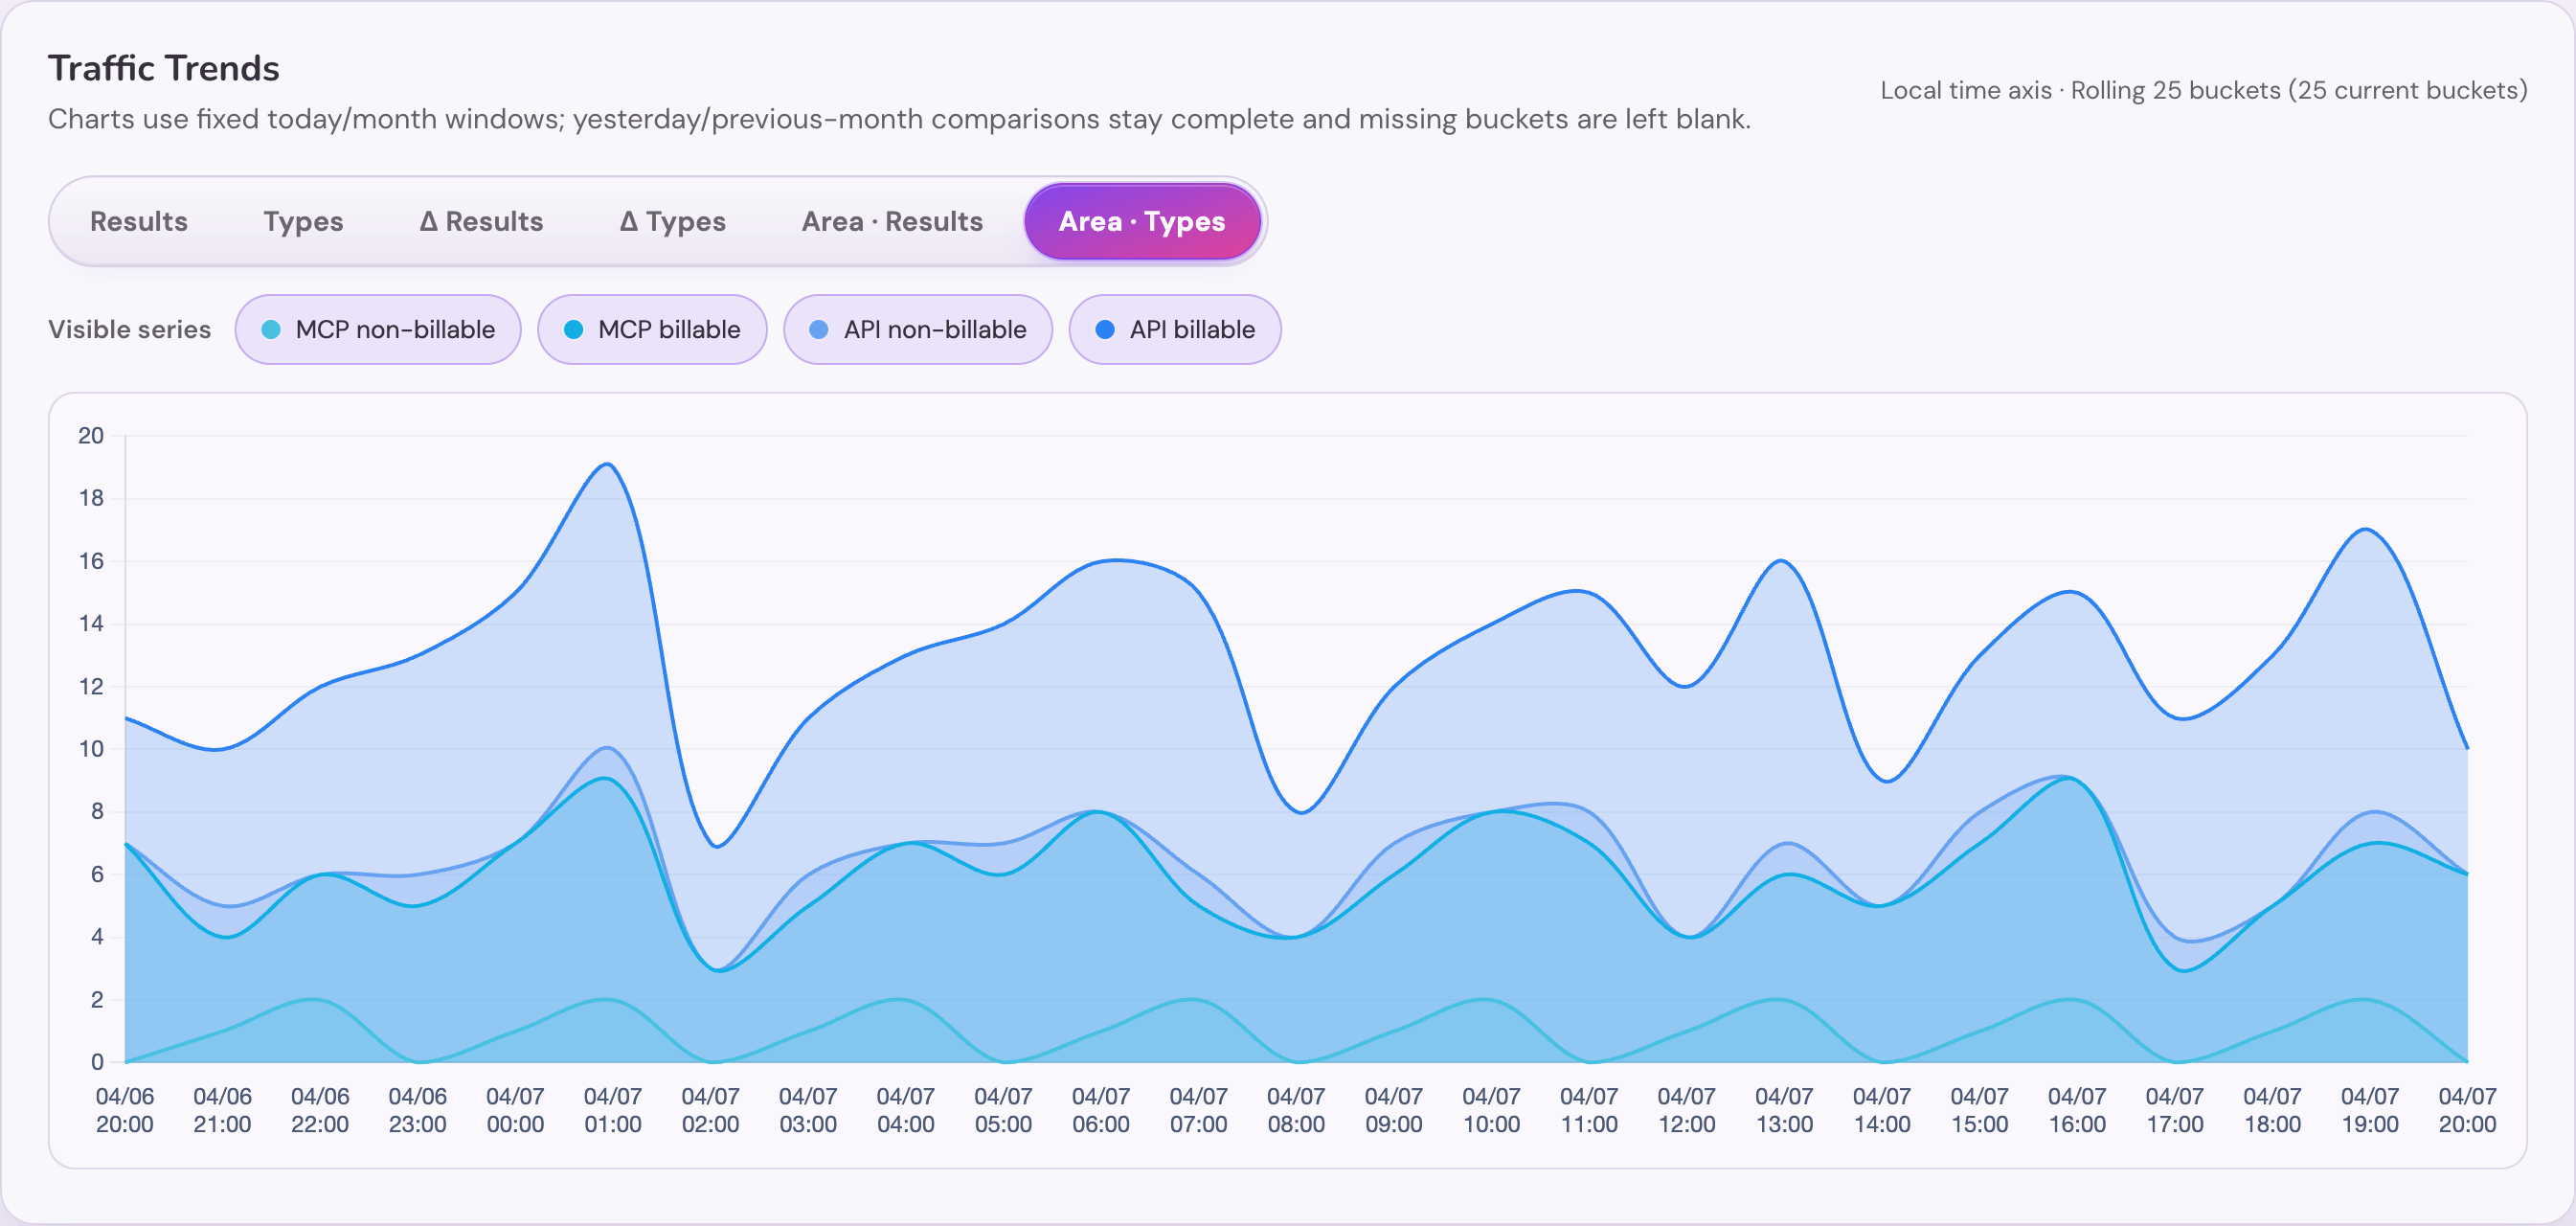
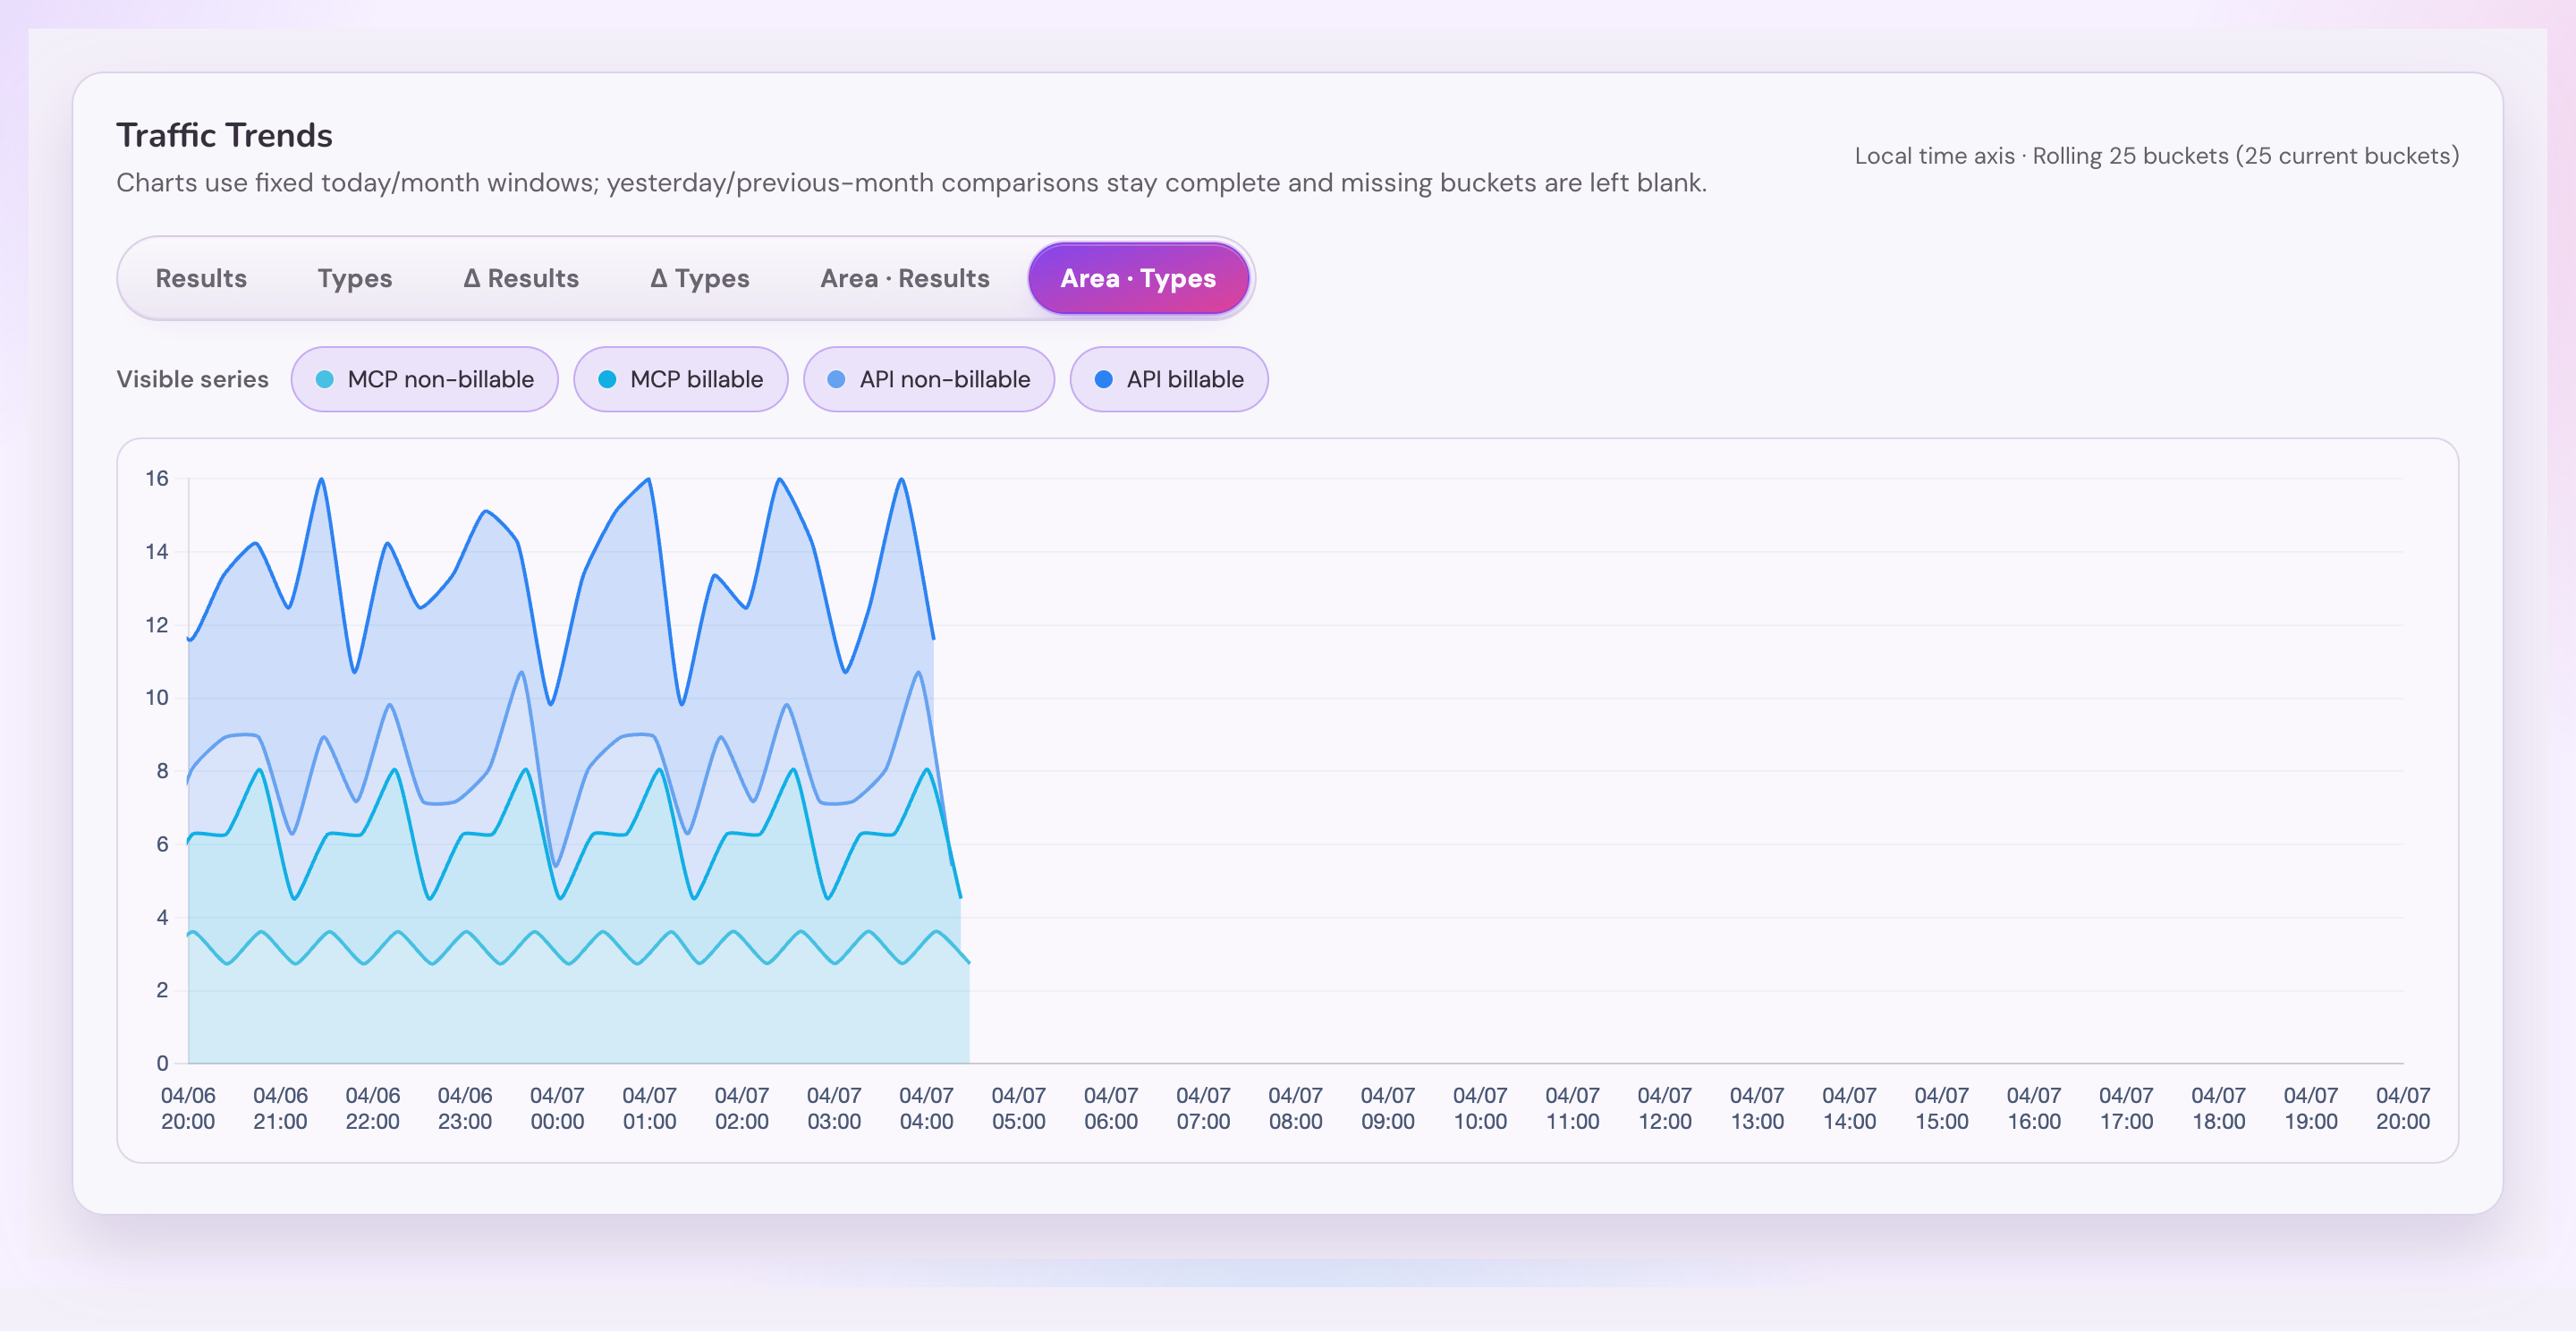
fix(admin-dashboard): stack hourly area charts (#324)

Pull request: fix: stack admin dashboard area charts
Spec: docs/specs/h2698-admin-dashboard-hourly-request-charts/SPEC.md
Spec Disposition: update
Solutions: -
Project Docs: -
Spec Sync: done
Spec Drift: none
Solutions Sync: n/a(no relevant solution doc)
Project Docs Sync: n/a(no project-doc change)

## Summary
- switch the admin dashboard area charts to explicit stacked fill targets so each visible series fills against the previous visible layer instead of the zero baseline
- disable Chart.js filler propagation, keep absolute-value stacking semantics, and reduce area smoothing to `tension=0.18`
- add regression coverage for hidden-middle-series re-stacking, refresh Storybook area evidence stories, and update spec visual evidence

## Test Plan
- `bun test web/src/admin/dashboardHourlyCharts.test.ts web/src/admin/DashboardOverview.stories.test.tsx`
- `cd web && bun run build`
- `codex review --base origin/main`

## Visual Evidence
- Spec: `docs/specs/h2698-admin-dashboard-hourly-request-charts/SPEC.md`
  Evidence: `admin-components-dashboardoverview--results-area-mode`
  ![管理员仪表盘小时图表：调用结果面积图](https://github.com/IvanLi-CN/tavily-hikari/blob/291abdf9b56c0591271969f0dffa6f37618de274/docs/specs/h2698-admin-dashboard-hourly-request-charts/assets/dashboard-hourly-results-area.png?raw=1)
- Spec: `docs/specs/h2698-admin-dashboard-hourly-request-charts/SPEC.md`
  Evidence: `admin-components-dashboardoverview--types-area-mode`
[…]

diff --git a/web/src/admin/DashboardTrendPanel.tsx b/web/src/admin/DashboardTrendPanel.tsx
@@ -19,6 +19,7 @@ import {
 } from 'chart.js'
 import {
   buildDeltaSeriesSlotValues,
+  buildDashboardAreaStackLayers,
   buildHourlyRangeSlots,
   getVisibleHourlyWindow,
   DASHBOARD_RESULT_SERIES_ORDER,
@@ -337,46 +338,52 @@ export default function DashboardTrendPanel({
     if (chartMode === 'resultsArea') {
       return {
         labels,
-        datasets: activeSeries.map((seriesId) => ({
-          type: 'line' as const,
-          label: resultSeriesLabels[seriesId as DashboardResultSeriesId],
-          data: labels.map((_, index) => {
-            const bucket = rangeSlots[index]?.bucket ?? null
-            return bucket ? getResultSeriesValue(bucket, seriesId as DashboardResultSeriesId) : null
-          }),
-          borderColor: seriesColors[seriesId as DashboardResultSeriesId],
-          backgroundColor: withOpacity(seriesColors[seriesId as DashboardResultSeriesId], 0.22),
-          fill: true,
-          borderWidth: 2,
-          pointRadius: 0,
-          pointHoverRadius: 3,
-          tension: 0.34,
-          spanGaps: false,
-          stack: 'area',
-        })),
+        datasets: buildDashboardAreaStackLayers(activeSeries as DashboardResultSeriesId[]).map((layer) => {
+          const seriesId = layer.seriesId
+          return {
+            type: 'line' as const,
+            label: resultSeriesLabels[seriesId],
+            data: labels.map((_, index) => {
+              const bucket = rangeSlots[index]?.bucket ?? null
+              return bucket ? getResultSeriesValue(bucket, seriesId) : null
+            }),
+            borderColor: seriesColors[seriesId],
+            backgroundColor: withOpacity(seriesColors[seriesId], 0.22),
+            fill: layer.fill,
+            borderWidth: layer.borderWidth,
+            pointRadius: layer.pointRadius,
+            pointHoverRadius: layer.pointHoverRadius,
+            tension: layer.tension,
+            spanGaps: layer.spanGaps,
+            stack: layer.stack,
+          }
+        }),
       }
     }
 
     if (chartMode === 'typesArea') {
       return {
         labels,
-        datasets: activeSeries.map((seriesId) => ({
-          type: 'line' as const,
-          label: typeSeriesLabels[seriesId as DashboardTypeSeriesId],
-          data: labels.map((_, index) => {
-            const bucket = rangeSlots[index]?.bucket ?? null
-            return bucket ? getTypeSeriesValue(bucket, seriesId as DashboardTypeSeriesId) : null
-          }),
-          borderColor: seriesColors[seriesId as DashboardTypeSeriesId],
-          backgroundColor: withOpacity(seriesColors[seriesId as DashboardTypeSeriesId], 0.22),
-          fill: true,
-          borderWidth: 2,
-          pointRadius: 0,
-          pointHoverRadius: 3,
-          tension: 0.34,
-          spanGaps: false,
-          stack: 'area',
-        })),
+        datasets: buildDashboardAreaStackLayers(activeSeries as DashboardTypeSeriesId[]).map((layer) => {
+          const seriesId = layer.seriesId
+          return {
+            type: 'line' as const,
+            label: typeSeriesLabels[seriesId],
+            data: labels.map((_, index) => {
+              const bucket = rangeSlots[index]?.bucket ?? null
+              return bucket ? getTypeSeriesValue(bucket, seriesId) : null
+            }),
+            borderColor: seriesColors[seriesId],
+            backgroundColor: withOpacity(seriesColors[seriesId], 0.22),
+            fill: layer.fill,
+            borderWidth: layer.borderWidth,
+            pointRadius: layer.pointRadius,
+            pointHoverRadius: layer.pointHoverRadius,
+            tension: layer.tension,
+            spanGaps: layer.spanGaps,
+            stack: layer.stack,
+          }
+        }),
       }
     }
 
@@ -410,6 +417,9 @@ export default function DashboardTrendPanel({
       },
       plugins: {
         legend: { display: false },
+        filler: {
+          propagate: false,
+        },
         tooltip: {
           mode: 'index',
           intersect: false,

diff --git a/web/src/admin/DashboardOverview.stories.tsx b/web/src/admin/DashboardOverview.stories.tsx
@@ -427,6 +427,22 @@ fixedRangeGapHourlyRequestWindow.buckets = fixedRangeGapHourlyRequestWindow.buck
   (_, index) => ![2, 7, 19, 31, 42].includes(index),
 )
 
+const areaEvidenceHourlyRequestWindow = buildDashboardHourlyRequestWindowFixture({
+  currentHourStart: Date.UTC(2026, 3, 7, 12, 0, 0) / 1000,
+  mapBucket: ({ index, bucket }) => ({
+    secondarySuccess: (index % 4) + 2,
+    primarySuccess: bucket.primarySuccess + 5 + (index % 3),
+    secondaryFailure: index % 3,
+    primaryFailure429: index % 6 === 0 ? 2 : index % 4 === 0 ? 1 : 0,
+    primaryFailureOther: index % 5 === 0 ? 2 : index % 3 === 0 ? 1 : 0,
+    unknown: index % 9 === 0 ? 1 : 0,
+    mcpNonBillable: (index % 2) + 1,
+    mcpBillable: (index % 4) + 2,
+    apiNonBillable: (index % 3) + 1,
+    apiBillable: (index % 5) + 4,
+  }),
+})
+
 const statusMetrics = [
   { id: 'remaining', label: 'Remaining', value: '49,482', subtitle: 'Current snapshot · 88.4%' },
   { id: 'keys', label: 'Active Keys', value: '57', subtitle: 'Current snapshot' },
@@ -936,6 +952,15 @@ export const ResultsAreaMode: Story = {
   args: {
     ...Default.args,
     initialChartMode: 'resultsArea',
+    hourlyRequestWindow: areaEvidenceHourlyRequestWindow,
+  },
+  parameters: {
+    docs: {
+      description: {
+        story:
+          'Results area chart proof. The datasets use a true stacked fill sequence, first layer to origin and every later visible layer to the previous visible layer.',
+      },
+    },
   },
 }
 
@@ -943,6 +968,47 @@ export const TypesAreaMode: Story = {
   args: {
     ...Default.args,
     initialChartMode: 'typesArea',
+    hourlyRequestWindow: areaEvidenceHourlyRequestWindow,
+  },
+  parameters: {
+    docs: {
+      description: {
+        story:
+          'Types area chart proof. The top contour remains absolute request volume while each type renders as a non-overlapping stacked band.',
+      },
+    },
+  },
+}
+
+export const TypesAreaHiddenMiddleSeries: Story = {
+  args: {
+    ...Default.args,
+    initialChartMode: 'typesArea',
+    hourlyRequestWindow: areaEvidenceHourlyRequestWindow,
+    initialVisibleTypeSeries: ['mcpNonBillable', 'apiNonBillable', 'apiBillable'],
+  },
+  parameters: {
+    docs: {
+      description: {
+        story:
+          'Regression proof for hidden middle layers: MCP billable is hidden, so the remaining type series must rebuild into a continuous stacked area with no reserved gap.',
+      },
+    },
+  },
+  play: async ({ canvasElement }) => {
+    await new Promise((resolve) => window.setTimeout(resolve, 50))
+    const chips = Array.from(canvasElement.querySelectorAll<HTMLButtonElement>('.dashboard-chart-series-chip'))
+    const mcpBillable = chips.find((chip) => chip.textContent?.includes('MCP billable'))
+    const apiNonBillable = chips.find((chip) => chip.textContent?.includes('API non-billable'))
+    if (mcpBillable?.getAttribute('aria-pressed') !== 'false') {
+      throw new Error('Expected hidden middle type series to be inactive in the stacked area story.')
+    }
+    if (apiNonBillable?.getAttribute('aria-pressed') !== 'true') {
+      throw new Error('Expected later visible type series to stay active after the middle series is hidden.')
+    }
+    if (canvasElement.querySelector('.dashboard-chart-canvas canvas') == null) {
+      throw new Error('Expected hidden-middle stacked area story to render the chart canvas.')
+    }
   },
 }
 

diff --git a/web/src/admin/dashboardHourlyCharts.ts b/web/src/admin/dashboardHourlyCharts.ts
@@ -48,6 +48,11 @@ export const DEFAULT_VISIBLE_TYPE_SERIES = [
   ...DASHBOARD_TYPE_SERIES_ORDER,
 ] as const satisfies ReadonlyArray<DashboardTypeSeriesId>
 
+export const DASHBOARD_AREA_CHART_STACK_ID = 'area'
+export const DASHBOARD_AREA_CHART_TENSION = 0.18
+
+export type DashboardAreaFillTarget = 'origin' | '-1'
+
 export interface DashboardHourlyChartPreferences {
   chartMode: DashboardHourlyChartMode
   visibleResultSeries: DashboardResultSeriesId[]
@@ -73,6 +78,18 @@ export interface DashboardVisibleWindow {
   rangeStart: number
   rangeEnd: number
   slots: DashboardHourlyRangeSlot[]
+}
+
+export interface DashboardAreaStackLayer<T extends string> {
+  seriesId: T
+  type: 'line'
+  fill: DashboardAreaFillTarget
+  stack: typeof DASHBOARD_AREA_CHART_STACK_ID
+  tension: typeof DASHBOARD_AREA_CHART_TENSION
+  borderWidth: 2
+  pointRadius: 0
+  pointHoverRadius: 3
+  spanGaps: false
 }
 
 function positiveModulo(value: number, divisor: number): number {
@@ -269,6 +286,22 @@ export function getVisibleHourlyWindow(window: DashboardHourlyRequestWindow): Da
     rangeEnd,
     slots: buildHourlyRangeSlots(window, rangeStart, rangeEnd),
   }
+}
+
+export function buildDashboardAreaStackLayers<T extends string>(
+  visibleSeries: ReadonlyArray<T>,
+): DashboardAreaStackLayer<T>[] {
+  return visibleSeries.map((seriesId, index) => ({
+    seriesId,
+    type: 'line',
+    fill: index === 0 ? 'origin' : '-1',
+    stack: DASHBOARD_AREA_CHART_STACK_ID,
+    tension: DASHBOARD_AREA_CHART_TENSION,
+    borderWidth: 2,
+    pointRadius: 0,
+    pointHoverRadius: 3,
+    spanGaps: false,
+  }))
 }
 
 export function getCurrentDayHourlyBuckets(

diff --git a/web/src/admin/dashboardHourlyCharts.test.ts b/web/src/admin/dashboardHourlyCharts.test.ts
@@ -2,12 +2,15 @@ import { describe, expect, it } from 'bun:test'
 
 import {
   buildDashboardHourlyRequestWindowFixture,
+  buildDashboardAreaStackLayers,
   buildDeltaSeriesValues,
   buildDeltaSeriesSlotValues,
   buildHourlyBucketLookup,
   buildHourlyRangeSlots,
   createDashboardHourlyChartPreferences,
   createEmptyDashboardHourlyRequestWindow,
+  DASHBOARD_AREA_CHART_STACK_ID,
+  DASHBOARD_AREA_CHART_TENSION,
   DASHBOARD_RESULT_SERIES_ORDER,
   DASHBOARD_TYPE_SERIES_ORDER,
   getCurrentDayHourlyBuckets,
@@ -182,6 +185,35 @@ describe('dashboardHourlyCharts helpers', () => {
   it('supports the expanded chart mode set including area charts', () => {
     expect(createDashboardHourlyChartPreferences({ chartMode: 'resultsArea' }).chartMode).toBe('resultsArea')
     expect(createDashboardHourlyChartPreferences({ chartMode: 'typesArea' }).chartMode).toBe('typesArea')
+  })
+
+  it('builds non-overlapping stacked area fill targets for all visible result series', () => {
+    const layers = buildDashboardAreaStackLayers(DASHBOARD_RESULT_SERIES_ORDER)
+
+    expect(layers.map((layer) => layer.seriesId)).toEqual([...DASHBOARD_RESULT_SERIES_ORDER])
+    expect(layers.every((layer) => layer.type === 'line')).toBe(true)
+    expect(layers.map((layer) => layer.fill)).toEqual(['origin', '-1', '-1', '-1', '-1', '-1'])
+    expect(layers.every((layer) => layer.stack === DASHBOARD_AREA_CHART_STACK_ID)).toBe(true)
+    expect(layers.every((layer) => layer.tension === DASHBOARD_AREA_CHART_TENSION)).toBe(true)
+    expect(layers.every((layer) => layer.borderWidth === 2)).toBe(true)
+    expect(layers.every((layer) => layer.pointRadius === 0)).toBe(true)
+    expect(layers.every((layer) => layer.pointHoverRadius === 3)).toBe(true)
+    expect(layers.every((layer) => layer.spanGaps === false)).toBe(true)
+  })
+
+  it('rebuilds stacked area fill targets from the currently visible type series only', () => {
+    const visibleWithoutMiddle = DASHBOARD_TYPE_SERIES_ORDER.filter((seriesId) => seriesId !== 'mcpBillable')
+
+    const layers = buildDashboardAreaStackLayers(visibleWithoutMiddle)
+
+    expect(layers.map((layer) => layer.seriesId)).toEqual([
+      'mcpNonBillable',
+      'apiNonBillable',
+      'apiBillable',
+    ])
+    expect(layers.map((layer) => layer.fill)).toEqual(['origin', '-1', '-1'])
+    expect(layers.map((layer) => layer.stack)).toEqual(['area', 'area', 'area'])
+    expect(layers.map((layer) => layer.tension)).toEqual([0.18, 0.18, 0.18])
   })
 
   it('round-trips persisted chart preferences and preserves explicit empty absolute selections', () => {

diff --git a/web/src/admin/DashboardOverview.stories.test.tsx b/web/src/admin/DashboardOverview.stories.test.tsx
@@ -13,6 +13,7 @@ describe('DashboardOverview Storybook coverage', () => {
     expect(dashboardStories.TypesDeltaMode).toMatchObject({})
     expect(dashboardStories.ResultsAreaMode).toMatchObject({})
     expect(dashboardStories.TypesAreaMode).toMatchObject({})
+    expect(dashboardStories.TypesAreaHiddenMiddleSeries).toMatchObject({})
     expect(dashboardStories.HiddenSeriesEmpty).toMatchObject({})
     expect(dashboardStories.FixedRangeWithGaps).toMatchObject({})
   })
@@ -57,5 +58,14 @@ describe('DashboardOverview Storybook coverage', () => {
   it('exposes dedicated area-chart stories for both series families', () => {
     expect(dashboardStories.ResultsAreaMode.args?.initialChartMode).toBe('resultsArea')
     expect(dashboardStories.TypesAreaMode.args?.initialChartMode).toBe('typesArea')
+  })
+
+  it('exposes a stacked-area hidden-middle-series regression story', () => {
+    expect(dashboardStories.TypesAreaHiddenMiddleSeries.args?.initialChartMode).toBe('typesArea')
+    expect(dashboardStories.TypesAreaHiddenMiddleSeries.args?.initialVisibleTypeSeries).toEqual([
+      'mcpNonBillable',
+      'apiNonBillable',
+      'apiBillable',
+    ])
   })
 })

diff --git a/docs/specs/h2698-admin-dashboard-hourly-request-charts/SPEC.md b/docs/specs/h2698-admin-dashboard-hourly-request-charts/SPEC.md
@@ -100,7 +100,11 @@
 - 图表默认显示：
   - 结果图：`次要成功 → 主要成功 → 次要失败 → 主要失败·429 → 主要失败·其他 → unknown`
   - 类型图：`MCP 非计费 → MCP 计费 → API 非计费 → API 计费`
-- 面积图沿用结果/类型两组 series 与颜色体系，使用 stacked area 读结构占比和波峰变化。
+- 面积图沿用结果/类型两组 series 与颜色体系，使用真正的 stacked area 读结构占比和波峰变化：
+  - 首个可见 series 填充到 `origin`，后续可见 series 填充到前一个可见 dataset，禁止所有 series 同时回填到零基线造成重叠面积。
+  - 用户隐藏中间 series 后，面积图必须按剩余可见 series 重新连续堆叠，不为隐藏层保留视觉空腔。
+  - Chart.js filler propagation 必须关闭，避免相邻目标在隐藏/缺失时被插件自动传播到非预期层。
+  - 面积图轮廓线只允许轻微平滑，避免小时桶数据被过度抹圆。
 - 绝对图与面积图默认全选全部 series。
 - 绝对图与面积图都使用多选显示/隐藏；后两个 delta 图使用单选，并额外提供 `全部`。
 - 结果维度的 series 可见性在结果柱状图和结果面积图之间共享；类型维度同理。
@@ -185,6 +189,14 @@
   PR: include
   image:
   ![管理员仪表盘小时图表：调用类型面积图](./assets/dashboard-hourly-types-area.png)
+
+- source_type: storybook_canvas
+  story_id_or_title: `admin-components-dashboardoverview--types-area-hidden-middle-series`
+  state: `types-area-hidden-middle`
+  evidence_note: 验证隐藏中间 type series 后，剩余可见 series 会重新连续堆叠，不为隐藏层保留视觉空腔。
+  PR: include
+  image:
+  ![管理员仪表盘小时图表：调用类型面积图隐藏中间层](./assets/dashboard-hourly-types-area-hidden-middle.png)
 
 - source_type: storybook_canvas
   story_id_or_title: `admin-components-dashboardoverview--hidden-series-empty`